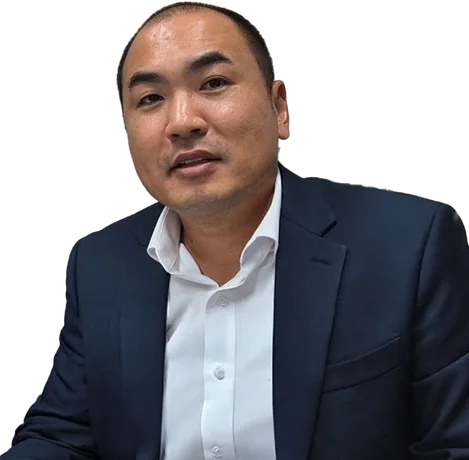
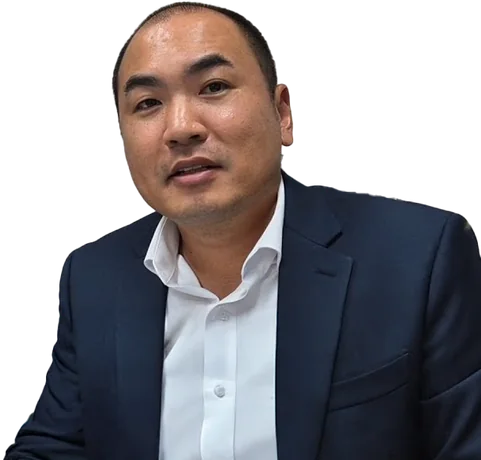
히어로 가운데를 양미희 님으로 — 스시집 사장님이 한 페이지에 두 번 나왔다
로바다가쿠(스시집)는 히어로 줄 가운데와 아래 '첫 고객 100명 만들기' 카드에 함께 쓰여,
한 화면을 내리는 동안 같은 얼굴이 두 번 나왔다. 가운데를 조회수 3위 인터뷰(10.5만,
aGcBkc2lg3A)의 주인공으로 바꾸고, 서 있는 키도 그가 가장 크게 두어 시선이 먼저 닿게 했다.

머리 폭 측정이 긴 머리에 부풀려져 얼굴이 작게 나오길래 보정을 1.12로 올렸다 —
넷의 얼굴 크기가 다시 맞는다. 쓰이지 않게 된 line-sushi.webp는 지웠다(스크립트로 재생성 가능).

diff --git a/app/programs/programs.css b/app/programs/programs.css
@@ -19,10 +19,10 @@
 .pgLineup img:first-child{margin-left:0}
 /* 넷 다 같은 높이 — 머리 크기가 이미 맞춰져 있다. 서 있는 키만 조금씩 다르게 */
 .pgLineup img{height:238px;position:relative}
-.pgLineup img:nth-child(1){top:6px}
-.pgLineup img:nth-child(2){top:0}
-.pgLineup img:nth-child(3){top:10px}
-.pgLineup img:nth-child(4){top:4px}
+.pgLineup img:nth-child(1){top:9px}
+.pgLineup img:nth-child(2){top:5px}
+.pgLineup img:nth-child(3){top:0}      /* 가운데 — 가장 크게 서서 시선이 먼저 닿는다 */
+.pgLineup img:nth-child(4){top:6px}
 /* 한 사람씩 자리에 선다 */
 @keyframes pgRise{from{opacity:0;transform:translateY(20px)}to{opacity:1;transform:none}}
 .pgLineup img{animation:pgRise .72s cubic-bezier(.2,.7,.2,1) both}

diff --git a/app/programs/page.tsx b/app/programs/page.tsx
@@ -108,7 +108,7 @@ export default function Programs() {
 
           {/* 먼저 가본 사람들 — 머리 크기와 프레이밍을 맞춰 구운 누끼(scripts/lineup-faces.py) */}
           <div className="pgLineup" aria-hidden="true">
-            {['line-cpa', 'line-salon', 'line-sushi', 'line-mechanic'].map(f => (
+            {['line-cpa', 'line-salon', 'line-yangmihee', 'line-mechanic'].map(f => (
               <img key={f} src={`/faces/${f}.webp`} alt="" loading="eager" decoding="async" />
             ))}
           </div>

diff --git a/scripts/lineup-faces.py b/scripts/lineup-faces.py
@@ -30,7 +30,9 @@ HEAD_PAD = 0.0          # 정수리 위 여백 비율(필요하면 키운다)
 PICKS = [
     ('회계사',      'line-cpa',      1.07),
     ('미용학원',    'line-salon',    1.03),
-    ('로바다가쿠',  'line-sushi',    1.00),
+    # 양미희 — 조회수 3위 인터뷰(aGcBkc2lg3A, 10.5만)의 주인공. 가운데(메인) 자리.
+    # 원래 이 자리에 있던 로바다가쿠(스시집)는 아래 과정 카드에도 쓰여 한 페이지에 두 번 나왔다.
+    ('ChatGPT Image 2026년 9월 3일 오후 03_35_48', 'line-yangmihee', 1.12),
     ('정비소',      'line-mechanic', 0.92),
 ]
 
